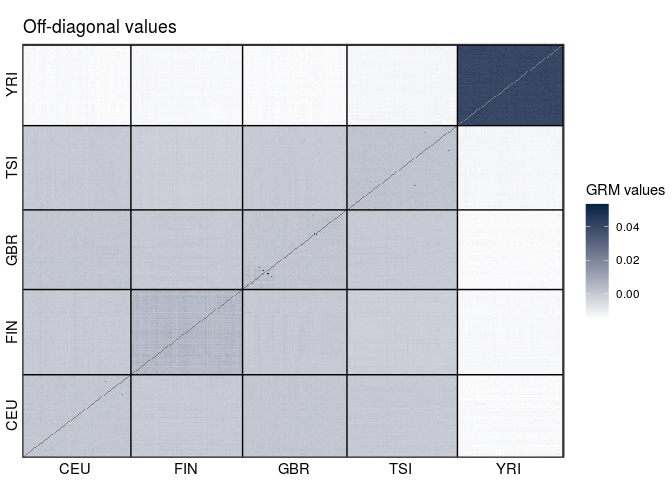
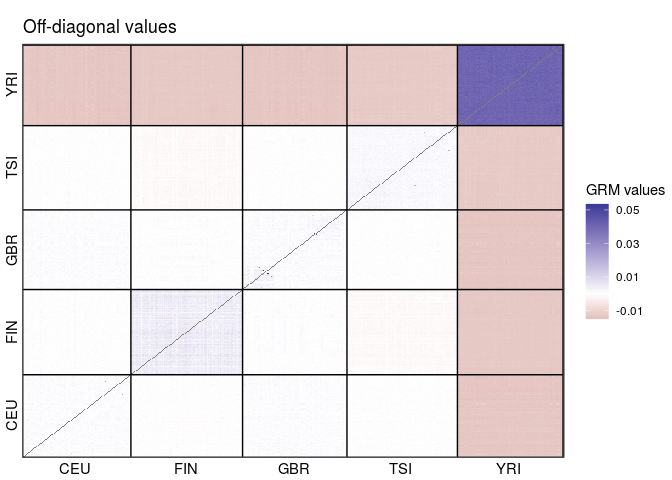
implement grm correction for negative eigenvalues

diff --git a/hla_herit.md b/hla_herit.md
@@ -121,10 +121,10 @@ pca <- snpgdsPCA(gds, num.thread = 16L)
         using 16 threads
         # of principal components: 32
     CPU capabilities: Double-Precision SSE2
-    Wed Mar 17 20:53:34 2021    (internal increment: 8752)
-    [..................................................]  0%, ETC: ---        [==================================================] 100%, completed, 38s
-    Wed Mar 17 20:54:12 2021    Begin (eigenvalues and eigenvectors)
-    Wed Mar 17 20:54:12 2021    Done.
+    Thu Mar 18 13:56:58 2021    (internal increment: 8752)
+    [..................................................]  0%, ETC: ---        [==================================================] 100%, completed, 36s
+    Thu Mar 18 13:57:34 2021    Begin (eigenvalues and eigenvectors)
+    Thu Mar 18 13:57:34 2021    Done.
 
 ``` r
 pops <- read_tsv("/raid/genevol/heritability/hla_expression.tsv") %>%
@@ -268,20 +268,13 @@ head(pData(annotphen))
 ```
 
 ``` 
-  sample.id subject_id      lab    sex pop          V1            V2
-1   HG00096    HG00096    UNIGE   male GBR -0.02409590  1.178854e-03
-2   HG00097    HG00097     LUMC female GBR -0.02433438 -9.808199e-04
-3   HG00099    HG00099     HMGU female GBR -0.02452840 -2.650025e-05
-4   HG00100    HG00100 CNAG_CRG female GBR -0.02342908  1.718510e-02
-5   HG00101    HG00101    UNIGE   male GBR -0.02409977  1.364934e-03
-6   HG00102    HG00102    MPIMG female GBR -0.02474157 -2.891527e-03
-            V3     tpm
-1 -0.005208341 1604.34
-2 -0.007818318 1342.20
-3 -0.007551133  921.60
-4  0.007413764 1392.66
-5 -0.003502374 1082.02
-6 -0.006582548 1053.15
+  sample.id subject_id      lab    sex pop          V1            V2           V3     tpm
+1   HG00096    HG00096    UNIGE   male GBR -0.02409590  1.178854e-03 -0.005208341 1604.34
+2   HG00097    HG00097     LUMC female GBR -0.02433438 -9.808199e-04 -0.007818318 1342.20
+3   HG00099    HG00099     HMGU female GBR -0.02452840 -2.650025e-05 -0.007551133  921.60
+4   HG00100    HG00100 CNAG_CRG female GBR -0.02342908  1.718510e-02  0.007413764 1392.66
+5   HG00101    HG00101    UNIGE   male GBR -0.02409977  1.364934e-03 -0.003502374 1082.02
+6   HG00102    HG00102    MPIMG female GBR -0.02474157 -2.891527e-03 -0.006582548 1053.15
 ```
 
 ## GRM
@@ -297,10 +290,8 @@ gdsfmt::showfile.gds(closeall = TRUE)
 ```
 
 ``` 
-                                                            FileName ReadOnly
-1 /raid/genevol/users/vitor/heritability/data/kgp/allchrs_pruned.gds     TRUE
-   State
-1 closed
+                                                            FileName ReadOnly  State
+1 /raid/genevol/users/vitor/heritability/data/kgp/allchrs_pruned.gds     TRUE closed
 ```
 
 ``` r
@@ -317,9 +308,9 @@ grm_obj <- snpgdsGRM(pruned, method = "GCTA", num.thread = 16L)
         # of SNVs: 2,195,733
         using 16 threads
     CPU capabilities: Double-Precision SSE2
-    Wed Mar 17 20:54:20 2021    (internal increment: 8752)
-    [..................................................]  0%, ETC: ---        [==================================================] 100%, completed, 39s
-    Wed Mar 17 20:54:59 2021    Done.
+    Thu Mar 18 13:57:42 2021    (internal increment: 8752)
+    [..................................................]  0%, ETC: ---        [==================================================] 100%, completed, 40s
+    Thu Mar 18 13:58:22 2021    Done.
 
 We extract and rename the matrix
 
@@ -366,6 +357,28 @@ range(eig$values)
 
 ![](hla_herit_files/figure-gfm/unnamed-chunk-15-1.png)<!-- -->
 
+Because we have a small negative eigenvalue, the code for model fitting
+below will fail. Therefore we need to apply a correction to ensure our
+GRM is positive definite.
+
+``` r
+eig$values[eig$values < 1e-10] <- 1e-10
+grm_pd <- eig$vectors %*% diag(eig$values) %*% t(eig$vectors)
+
+rownames(grm_pd) <- rownames(grm)
+colnames(grm_pd) <- colnames(grm)
+grm_pd[1:5, 1:5]
+```
+
+``` 
+            HG00096      HG00097      HG00099     HG00100     HG00101
+HG00096 0.956687356 0.0022034937 0.0023660411 0.001431433 0.003642691
+HG00097 0.002203494 0.9754513066 0.0007980224 0.003025820 0.003069123
+HG00099 0.002366041 0.0007980224 0.9609264716 0.009601814 0.005132164
+HG00100 0.001431433 0.0030258202 0.0096018139 0.998632104 0.010114417
+HG00101 0.003642691 0.0030691232 0.0051321635 0.010114417 0.938943766
+```
+
 ## Fitting the Null model
 
 The first step in finding genetic variants which are associated with a
@@ -379,21 +392,57 @@ sex. We also account for the relatedness between individuals (GRM).
 mod_null <- fitNullModel(annotphen, 
                          outcome = "tpm", 
                          covars = c("lab", "sex", "pop", "V1", "V2", "V3"),
-                         cov.mat = grm)
+                         cov.mat = grm_pd)
 
-#Error in chol.default(Sigma) : the leading minor of order 445 is not positive definite
-#12. chol.default(Sigma)
-#11. chol(Sigma)
-#10. chol(Sigma)
-#9. .computeSigmaQuantities(varComp = sigma2.k, covMatList = covMatList, group.idx = group.idx)
-#8. .runAIREMLgaussian(y, X, start = start, covMatList = covMatList, group.idx = group.idx, AIREML.tol = AIREML.tol, drop.zeros = drop.zeros, max.iter = max.iter, EM.iter = EM.iter, verbose = verbose)
-#7. .fitNullModel(y = desmat$y, X = desmat$X, covMatList = cov.mat, group.idx = desmat$group.idx, family = family, start = start, AIREML.tol = AIREML.tol, max.iter = max.iter, EM.iter = EM.iter, drop.zeros = drop.zeros, return.small = return.small, verbose = verbose)
-#6. .local(x, ...)
-#5. fitNullModel(x, outcome, covars, cov.mat, group.var, ...)
-#4. fitNullModel(x, outcome, covars, cov.mat, group.var, ...)
-#3. .local(x, ...)
-#2. fitNullModel(annotphen, outcome = "tpm", covars = c("lab", "sex", "pop", "V1", "V2", "V3"), cov.mat = grm)
-#1. fitNullModel(annotphen, outcome = "tpm", covars = c("lab", "sex", "pop", "V1", "V2", "V3"), cov.mat = grm)
+# Computing Variance Component Estimates...
+# Sigma^2_A     log-lik     RSS
+# [1] 90450.0733329 90450.0733329 -3180.1677469     0.7946036
+# [1]  1.299377e+05  3.971180e+04 -3.179600e+03  8.504499e-01
+# [1]  1.471800e+05  1.542620e+04 -3.179408e+03  8.898544e-01
+# [1]  1.558534e+05  2.022088e+03 -3.179333e+03  9.183829e-01
+# [1]    157038.422         0.000     -7453.163 396731067.636
+# [1]  4.859942e+04  0.000000e+00 -7.602906e+03  2.572755e+09
+# [1]  2.237060e+04  0.000000e+00 -7.674987e+03  7.814267e+09
+# [1]  4.924574e+03  0.000000e+00           NaN -4.070946e+10
+# [1]  1.581044e+03  0.000000e+00 -7.177704e+03  1.094249e+10
+# [1]  6.968396e+02  0.000000e+00 -7.597091e+03  1.746475e+11
+# [1]      80354.67          0.00           NaN -465145381.86
+# [1]   6709000         0       NaN -31366924
+# [1] 1926401772.18          0.00           NaN     -44765.28
+# [1]  4.129558e+10  0.000000e+00 -7.704039e+03  4.845637e+03
+# [1]  5.117687e+12  0.000000e+00 -7.021044e+03  1.631345e+00
+# [1]  6.099762e+16  0.000000e+00           NaN -1.856986e-03
+# [1]  2.610447e+16  0.000000e+00 -7.117544e+03  5.009863e-04
+# [1]  2.837112e+15  0.000000e+00 -7.746238e+03  8.582223e-02
+# [1]  1.508941e+21  0.000000e+00 -7.328298e+03  2.310102e-08
+# [1]  5.601089e+32  0.000000e+00           NaN -5.510454e-19
+# [1]  1.263340e+55  0.000000e+00           NaN -1.149428e-41
+# [1]  1.469691e+100   0.000000e+00  -7.751168e+03   1.695565e-86
+# [1]  7.055943e+99  0.000000e+00           NaN -4.475945e-86
+# [1]  1.797777e+189   0.000000e+00            NaN -1.101004e-175
+# Error in solve.default(AI, score) : 
+#   Lapack routine dgesv: system is exactly singular: U[1,1] = 0
+# In addition: There were 18 warnings (use warnings() to see them)
+# > warnings()
+# Warning messages:
+# 1: In log(2 * pi * RSS) : NaNs produced
+# 2: In log(2 * pi * RSS) : NaNs produced
+# 3: In log(2 * pi * RSS) : NaNs produced
+# 4: In log(2 * pi * RSS) : NaNs produced
+# 5: In log(2 * pi * RSS) : NaNs produced
+# 6: In log(2 * pi * RSS) : NaNs produced
+# 7: In log(2 * pi * RSS) : NaNs produced
+# 8: In log(2 * pi * RSS) : NaNs produced
+# 9: In log(2 * pi * RSS) : NaNs produced
+# 10: In log(2 * pi * RSS) : NaNs produced
+# 11: In log(2 * pi * RSS) : NaNs produced
+# 12: In log(2 * pi * RSS) : NaNs produced
+# 13: In log(2 * pi * RSS) : NaNs produced
+# 14: In log(2 * pi * RSS) : NaNs produced
+# 15: In log(2 * pi * RSS) : NaNs produced
+# 16: In log(2 * pi * RSS) : NaNs produced
+# 17: In log(2 * pi * RSS) : NaNs produced
+# 18: In log(2 * pi * RSS) : NaNs produced
 ```
 
 Now that we have a Null model adjusting expression levels for
@@ -434,7 +483,7 @@ varCompCI(nullmod, prop = TRUE)
 
     Error in get(genname, envir = envir) : object 'testthat_print' not found
 
-    ─ Session info ───────────────────────────────────────────────────────────────
+    ─ Session info ──────────────────────────────────────────────────────────────────────────────────────────────────────────────────────────────────────────────────────────────────────────────────────────────────────────────────────────────────────────────────────────────────────────────────────────────────────────────────────────────────────────────────────────────────────────────────────────────────────────────────────────────────────────────────────────────────────────────────────────────────────────────────────────────────────────────────────────────────────────────────────────────────────────────────────────────────────────────────────────────────────────────────────────────────────────────────────────────────────────────────────────────────────────────────────────────────────────────────────────────────────────────────────────────────────────────────────────────────────────────────────────────────────────────────────────────────────────────────────────────────────────────────────
      setting  value                       
      version  R version 4.0.2 (2020-06-22)
      os       Ubuntu 16.04.7 LTS          
@@ -444,9 +493,9 @@ varCompCI(nullmod, prop = TRUE)
      collate  en_US.UTF-8                 
      ctype    en_US.UTF-8                 
      tz       America/Sao_Paulo           
-     date     2021-03-17                  
+     date     2021-03-18                  
     
-    ─ Packages ───────────────────────────────────────────────────────────────────
+    ─ Packages ──────────────────────────────────────────────────────────────────────────────────────────────────────────────────────────────────────────────────────────────────────────────────────────────────────────────────────────────────────────────────────────────────────────────────────────────────────────────────────────────────────────────────────────────────────────────────────────────────────────────────────────────────────────────────────────────────────────────────────────────────────────────────────────────────────────────────────────────────────────────────────────────────────────────────────────────────────────────────────────────────────────────────────────────────────────────────────────────────────────────────────────────────────────────────────────────────────────────────────────────────────────────────────────────────────────────────────────────────────────────────────────────────────────────────────────────────────────────────────────────────────────────────────────
      package          * version  date       lib source        
      assertthat         0.2.1    2019-03-21 [2] CRAN (R 4.0.2)
      backports          1.2.1    2020-12-09 [1] CRAN (R 4.0.2)
